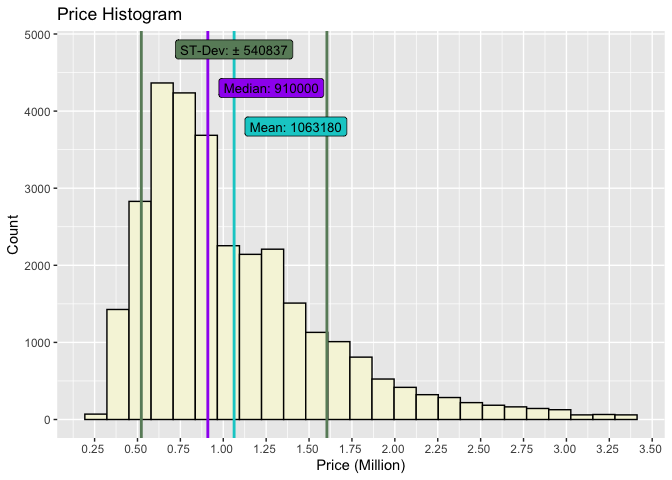
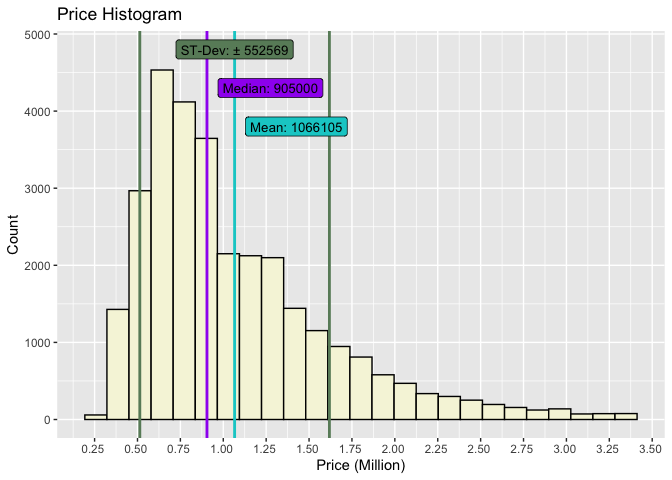
Knitted last changes to update "README.md"

diff --git a/README.md b/README.md
@@ -1256,19 +1256,19 @@ housing_dataset$YearBuilt <- NULL
 summary(housing_dataset)
 ```
 
-    ##       Date                     Type           Price            Landsize   
-    ##  Min.   :2016-01-28   House      :22243   Min.   : 310000   Min.   :  82  
-    ##  1st Qu.:2016-12-03   Townhouse  : 3149   1st Qu.: 668500   1st Qu.: 305  
-    ##  Median :2017-07-29   Unit/Duplex: 4857   Median : 905000   Median : 550  
-    ##  Mean   :2017-06-07                       Mean   :1063894   Mean   : 547  
-    ##  3rd Qu.:2017-11-11                       3rd Qu.:1320000   3rd Qu.: 686  
-    ##  Max.   :2018-03-17                       Max.   :3400000   Max.   :3434  
-    ##                                                                           
+    ##       Date                     Type           Price            Landsize     
+    ##  Min.   :2016-01-28   House      :22243   Min.   : 310000   Min.   :  82.0  
+    ##  1st Qu.:2016-12-03   Townhouse  : 3149   1st Qu.: 675000   1st Qu.: 302.0  
+    ##  Median :2017-07-29   Unit/Duplex: 4857   Median : 910000   Median : 552.0  
+    ##  Mean   :2017-06-07                       Mean   :1063180   Mean   : 544.3  
+    ##  3rd Qu.:2017-11-11                       3rd Qu.:1320000   3rd Qu.: 684.0  
+    ##  Max.   :2018-03-17                       Max.   :3400000   Max.   :3434.0  
+    ##                                                                             
     ##      Rooms          Bathroom          Car           Distance    
     ##  Min.   :1.000   Min.   :1.000   Min.   :0.000   Min.   : 0.00  
     ##  1st Qu.:3.000   1st Qu.:1.000   1st Qu.:1.000   1st Qu.: 7.00  
     ##  Median :3.000   Median :2.000   Median :2.000   Median :10.70  
-    ##  Mean   :3.083   Mean   :1.597   Mean   :1.688   Mean   :11.66  
+    ##  Mean   :3.083   Mean   :1.595   Mean   :1.694   Mean   :11.66  
     ##  3rd Qu.:4.000   3rd Qu.:2.000   3rd Qu.:2.000   3rd Qu.:14.30  
     ##  Max.   :5.000   Max.   :4.000   Max.   :5.000   Max.   :48.10  
     ##                                                                 
@@ -1289,19 +1289,19 @@ Since we don’t have any missing data, our data is ready for analysis!
 summary(housing_dataset)
 ```
 
-    ##       Date                     Type           Price            Landsize   
-    ##  Min.   :2016-01-28   House      :22243   Min.   : 310000   Min.   :  82  
-    ##  1st Qu.:2016-12-03   Townhouse  : 3149   1st Qu.: 668500   1st Qu.: 305  
-    ##  Median :2017-07-29   Unit/Duplex: 4857   Median : 905000   Median : 550  
-    ##  Mean   :2017-06-07                       Mean   :1063894   Mean   : 547  
-    ##  3rd Qu.:2017-11-11                       3rd Qu.:1320000   3rd Qu.: 686  
-    ##  Max.   :2018-03-17                       Max.   :3400000   Max.   :3434  
-    ##                                                                           
+    ##       Date                     Type           Price            Landsize     
+    ##  Min.   :2016-01-28   House      :22243   Min.   : 310000   Min.   :  82.0  
+    ##  1st Qu.:2016-12-03   Townhouse  : 3149   1st Qu.: 675000   1st Qu.: 302.0  
+    ##  Median :2017-07-29   Unit/Duplex: 4857   Median : 910000   Median : 552.0  
+    ##  Mean   :2017-06-07                       Mean   :1063180   Mean   : 544.3  
+    ##  3rd Qu.:2017-11-11                       3rd Qu.:1320000   3rd Qu.: 684.0  
+    ##  Max.   :2018-03-17                       Max.   :3400000   Max.   :3434.0  
+    ##                                                                             
     ##      Rooms          Bathroom          Car           Distance    
     ##  Min.   :1.000   Min.   :1.000   Min.   :0.000   Min.   : 0.00  
     ##  1st Qu.:3.000   1st Qu.:1.000   1st Qu.:1.000   1st Qu.: 7.00  
     ##  Median :3.000   Median :2.000   Median :2.000   Median :10.70  
-    ##  Mean   :3.083   Mean   :1.597   Mean   :1.688   Mean   :11.66  
+    ##  Mean   :3.083   Mean   :1.595   Mean   :1.694   Mean   :11.66  
     ##  3rd Qu.:4.000   3rd Qu.:2.000   3rd Qu.:2.000   3rd Qu.:14.30  
     ##  Max.   :5.000   Max.   :4.000   Max.   :5.000   Max.   :48.10  
     ##                                                                 
@@ -1541,7 +1541,7 @@ quantile(housing_dataset$Price, 0.25)
 ```
 
     ##    25% 
-    ## 668500
+    ## 675000
 
 ``` r
 quantile(housing_dataset$Price, 0.75)
@@ -1565,30 +1565,30 @@ Let us now examine the summaries of these groups separately.
 summary(lowpriced_properties)
 ```
 
-    ##       Date                     Type          Price           Landsize   
-    ##  Min.   :2016-02-04   House      :3829   Min.   :310000   Min.   :  82  
-    ##  1st Qu.:2017-03-11   Townhouse  : 810   1st Qu.:476000   1st Qu.: 301  
-    ##  Median :2017-08-26   Unit/Duplex:2921   Median :555000   Median : 550  
-    ##  Mean   :2017-07-01                      Mean   :539521   Mean   : 567  
-    ##  3rd Qu.:2017-11-18                      3rd Qu.:615000   3rd Qu.: 673  
-    ##  Max.   :2018-03-17                      Max.   :668400   Max.   :3434  
-    ##                                                                         
-    ##      Rooms          Bathroom          Car           Distance   
-    ##  Min.   :1.000   Min.   :1.000   Min.   :0.000   Min.   : 0.0  
-    ##  1st Qu.:2.000   1st Qu.:1.000   1st Qu.:1.000   1st Qu.: 8.4  
-    ##  Median :3.000   Median :1.000   Median :1.000   Median :12.9  
-    ##  Mean   :2.592   Mean   :1.328   Mean   :1.497   Mean   :14.3  
-    ##  3rd Qu.:3.000   3rd Qu.:2.000   3rd Qu.:2.000   3rd Qu.:18.4  
-    ##  Max.   :5.000   Max.   :4.000   Max.   :5.000   Max.   :48.1  
-    ##                                                                
+    ##       Date                     Type          Price           Landsize     
+    ##  Min.   :2016-02-04   House      :3762   Min.   :310000   Min.   :  82.0  
+    ##  1st Qu.:2017-03-18   Townhouse  : 824   1st Qu.:473000   1st Qu.: 285.0  
+    ##  Median :2017-08-26   Unit/Duplex:2962   Median :555000   Median : 542.0  
+    ##  Mean   :2017-07-02                      Mean   :540735   Mean   : 555.3  
+    ##  3rd Qu.:2017-11-18                      3rd Qu.:620000   3rd Qu.: 678.0  
+    ##  Max.   :2018-03-17                      Max.   :674000   Max.   :3434.0  
+    ##                                                                           
+    ##      Rooms          Bathroom          Car           Distance    
+    ##  Min.   :1.000   Min.   :1.000   Min.   :0.000   Min.   : 0.00  
+    ##  1st Qu.:2.000   1st Qu.:1.000   1st Qu.:1.000   1st Qu.: 8.40  
+    ##  Median :3.000   Median :1.000   Median :1.000   Median :12.90  
+    ##  Mean   :2.584   Mean   :1.328   Mean   :1.498   Mean   :14.33  
+    ##  3rd Qu.:3.000   3rd Qu.:2.000   3rd Qu.:2.000   3rd Qu.:18.40  
+    ##  Max.   :5.000   Max.   :4.000   Max.   :5.000   Max.   :48.10  
+    ##                                                                 
     ##                       Regionname   Propertycount 
-    ##  Northern Metropolitan     :2734   21650  : 351  
-    ##  Western Metropolitan      :2010   8870   : 225  
-    ##  Southern Metropolitan     :1413   15510  : 194  
-    ##  Eastern Metropolitan      : 564   13830  : 142  
-    ##  South-Eastern Metropolitan: 515   16166  : 128  
-    ##  Northern Victoria         : 129   14092  : 126  
-    ##  (Other)                   : 195   (Other):6394
+    ##  Northern Metropolitan     :2779   21650  : 356  
+    ##  Western Metropolitan      :2031   8870   : 230  
+    ##  Southern Metropolitan     :1348   15510  : 193  
+    ##  Eastern Metropolitan      : 558   13830  : 141  
+    ##  South-Eastern Metropolitan: 510   14092  : 131  
+    ##  Northern Victoria         : 133   16166  : 128  
+    ##  (Other)                   : 189   (Other):6369
 
 When we look at low-priced properties, we see that there are mostly
 House and Unit/Duplex properties. Almost all Unit/Duplex type properties
@@ -1602,30 +1602,30 @@ center and at the farthest point from the center.
 summary(midpriced_properties)
 ```
 
-    ##       Date                     Type           Price            Landsize     
-    ##  Min.   :2016-01-28   House      :11448   Min.   : 668500   Min.   :  82.0  
-    ##  1st Qu.:2016-12-03   Townhouse  : 1891   1st Qu.: 780000   1st Qu.: 288.0  
-    ##  Median :2017-07-29   Unit/Duplex: 1789   Median : 905000   Median : 535.0  
-    ##  Mean   :2017-06-07                       Mean   : 938406   Mean   : 527.9  
-    ##  3rd Qu.:2017-11-11                       3rd Qu.:1088000   3rd Qu.: 672.0  
-    ##  Max.   :2018-03-17                       Max.   :1320000   Max.   :3414.0  
-    ##                                                                             
-    ##      Rooms          Bathroom          Car           Distance    
-    ##  Min.   :1.000   Min.   :1.000   Min.   :0.000   Min.   : 0.00  
-    ##  1st Qu.:3.000   1st Qu.:1.000   1st Qu.:1.000   1st Qu.: 7.20  
-    ##  Median :3.000   Median :1.000   Median :2.000   Median :11.20  
-    ##  Mean   :3.075   Mean   :1.546   Mean   :1.691   Mean   :11.65  
-    ##  3rd Qu.:4.000   3rd Qu.:2.000   3rd Qu.:2.000   3rd Qu.:14.50  
-    ##  Max.   :5.000   Max.   :4.000   Max.   :5.000   Max.   :48.10  
-    ##                                                                 
+    ##       Date                     Type           Price            Landsize   
+    ##  Min.   :2016-01-28   House      :11521   Min.   : 675000   Min.   :  82  
+    ##  1st Qu.:2016-12-03   Townhouse  : 1892   1st Qu.: 786000   1st Qu.: 287  
+    ##  Median :2017-07-22   Unit/Duplex: 1753   Median : 910000   Median : 538  
+    ##  Mean   :2017-06-07                       Mean   : 944768   Mean   : 527  
+    ##  3rd Qu.:2017-11-11                       3rd Qu.:1100000   3rd Qu.: 670  
+    ##  Max.   :2018-03-17                       Max.   :1320000   Max.   :3414  
+    ##                                                                           
+    ##      Rooms         Bathroom          Car           Distance    
+    ##  Min.   :1.00   Min.   :1.000   Min.   :0.000   Min.   : 0.00  
+    ##  1st Qu.:3.00   1st Qu.:1.000   1st Qu.:1.000   1st Qu.: 7.00  
+    ##  Median :3.00   Median :1.000   Median :2.000   Median :11.20  
+    ##  Mean   :3.08   Mean   :1.546   Mean   :1.695   Mean   :11.59  
+    ##  3rd Qu.:4.00   3rd Qu.:2.000   3rd Qu.:2.000   3rd Qu.:14.50  
+    ##  Max.   :5.00   Max.   :4.000   Max.   :5.000   Max.   :48.10  
+    ##                                                                
     ##                       Regionname   Propertycount  
-    ##  Northern Metropolitan     :4331   21650  :  412  
-    ##  Southern Metropolitan     :3762   10969  :  405  
-    ##  Western Metropolitan      :3318   8870   :  349  
-    ##  Eastern Metropolitan      :2562   14577  :  320  
-    ##  South-Eastern Metropolitan: 998   11204  :  262  
-    ##  Eastern Victoria          :  99   11918  :  217  
-    ##  (Other)                   :  58   (Other):13163
+    ##  Northern Metropolitan     :4292   21650  :  414  
+    ##  Southern Metropolitan     :3905   10969  :  406  
+    ##  Western Metropolitan      :3268   8870   :  343  
+    ##  Eastern Metropolitan      :2531   14577  :  310  
+    ##  South-Eastern Metropolitan:1008   11204  :  255  
+    ##  Eastern Victoria          : 104   11918  :  220  
+    ##  (Other)                   :  58   (Other):13218
 
 When we look at mid-priced houses, we can see that more House type
 properties are in this scale. Although there is not a big difference in
@@ -1641,29 +1641,29 @@ summary(highpriced_properties)
 ```
 
     ##       Date                     Type          Price            Landsize     
-    ##  Min.   :2016-01-28   House      :6966   Min.   :1321000   Min.   :  83.0  
-    ##  1st Qu.:2016-11-19   Townhouse  : 448   1st Qu.:1480000   1st Qu.: 345.0  
-    ##  Median :2017-06-17   Unit/Duplex: 147   Median :1700000   Median : 585.0  
-    ##  Mean   :2017-05-13                      Mean   :1839273   Mean   : 565.1  
-    ##  3rd Qu.:2017-10-28                      3rd Qu.:2065000   3rd Qu.: 707.0  
+    ##  Min.   :2016-01-28   House      :6960   Min.   :1321000   Min.   :  83.0  
+    ##  1st Qu.:2016-11-19   Townhouse  : 433   1st Qu.:1470000   1st Qu.: 348.0  
+    ##  Median :2017-06-17   Unit/Duplex: 142   Median :1690000   Median : 590.0  
+    ##  Mean   :2017-05-13                      Mean   :1824860   Mean   : 568.2  
+    ##  3rd Qu.:2017-10-28                      3rd Qu.:2020000   3rd Qu.: 704.0  
     ##  Max.   :2018-03-17                      Max.   :3400000   Max.   :3381.0  
     ##                                                                            
-    ##      Rooms          Bathroom          Car          Distance     
-    ##  Min.   :1.000   Min.   :1.000   Min.   :0.00   Min.   : 0.000  
-    ##  1st Qu.:3.000   1st Qu.:1.000   1st Qu.:1.00   1st Qu.: 5.900  
-    ##  Median :4.000   Median :2.000   Median :2.00   Median : 8.700  
-    ##  Mean   :3.589   Mean   :1.969   Mean   :1.87   Mean   : 9.066  
-    ##  3rd Qu.:4.000   3rd Qu.:2.000   3rd Qu.:2.00   3rd Qu.:11.400  
-    ##  Max.   :5.000   Max.   :4.000   Max.   :5.00   Max.   :39.000  
-    ##                                                                 
+    ##      Rooms          Bathroom          Car           Distance     
+    ##  Min.   :1.000   Min.   :1.000   Min.   :0.000   Min.   : 0.000  
+    ##  1st Qu.:3.000   1st Qu.:1.000   1st Qu.:1.000   1st Qu.: 5.900  
+    ##  Median :4.000   Median :2.000   Median :2.000   Median : 8.700  
+    ##  Mean   :3.589   Mean   :1.961   Mean   :1.888   Mean   : 9.141  
+    ##  3rd Qu.:4.000   3rd Qu.:2.000   3rd Qu.:2.000   3rd Qu.:11.400  
+    ##  Max.   :5.000   Max.   :4.000   Max.   :5.000   Max.   :38.000  
+    ##                                                                  
     ##                       Regionname   Propertycount 
-    ##  Southern Metropolitan     :4485   7809   : 271  
-    ##  Northern Metropolitan     :1167   10412  : 245  
-    ##  Eastern Metropolitan      : 981   10331  : 241  
-    ##  Western Metropolitan      : 778   6938   : 233  
-    ##  South-Eastern Metropolitan: 142   10579  : 226  
-    ##  Eastern Victoria          :   5   8920   : 218  
-    ##  (Other)                   :   3   (Other):6127
+    ##  Southern Metropolitan     :4407   7809   : 266  
+    ##  Northern Metropolitan     :1161   8920   : 245  
+    ##  Eastern Metropolitan      :1018   10331  : 237  
+    ##  Western Metropolitan      : 807   6938   : 231  
+    ##  South-Eastern Metropolitan: 137   10579  : 226  
+    ##  Eastern Victoria          :   3   10412  : 224  
+    ##  (Other)                   :   2   (Other):6106
 
 When we look at the high-priced properties, we can say that almost all
 of them are House-type houses. When we check the distance value, it is
@@ -1708,8 +1708,15 @@ round(cor(housing_dataset[, c("Price", "Landsize", "Rooms", "Bathroom", "Car", "
 ```
 
     ##    Price Landsize    Rooms Bathroom      Car Distance 
-    ##     1.00     0.03     0.44     0.41     0.16    -0.27
+    ##     1.00     0.04     0.44     0.40     0.16    -0.27
 
-As we can see from the table above, Rooms, Bathroom and Distance
-variables are the 3 numerical variables that affect the Price value the
-most.
+As we can see from the table above, most of the numerical values in our
+table affects the Price significantly.
+
+And with this, we’ve completed our analysis on Melbourne Housing
+dataset. There might some updates in future to improve our approaches,
+add more detailed analysis and so on. This project was made with the aim
+of bringing together hands-on experiences. Although less effective
+methods were used in order to avoid the project’s purpose at some
+points, the project achieved its purpose. I hope this hands-on analysis
+report has helped you learn something about R, too.
